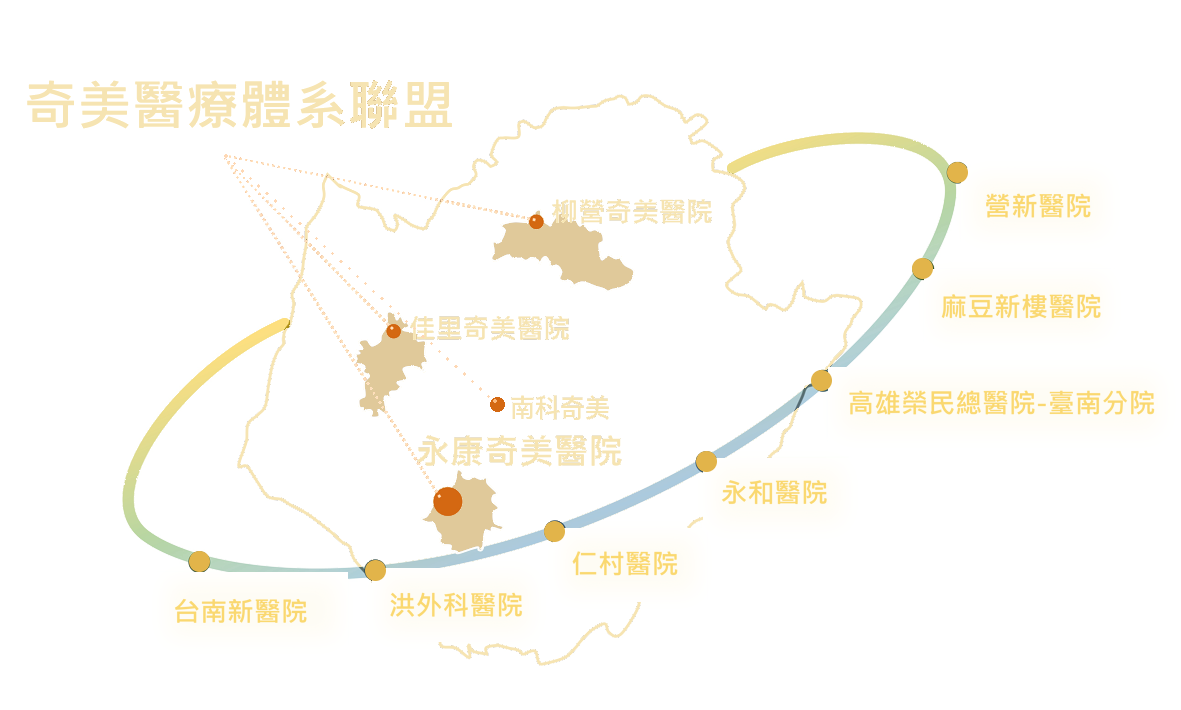
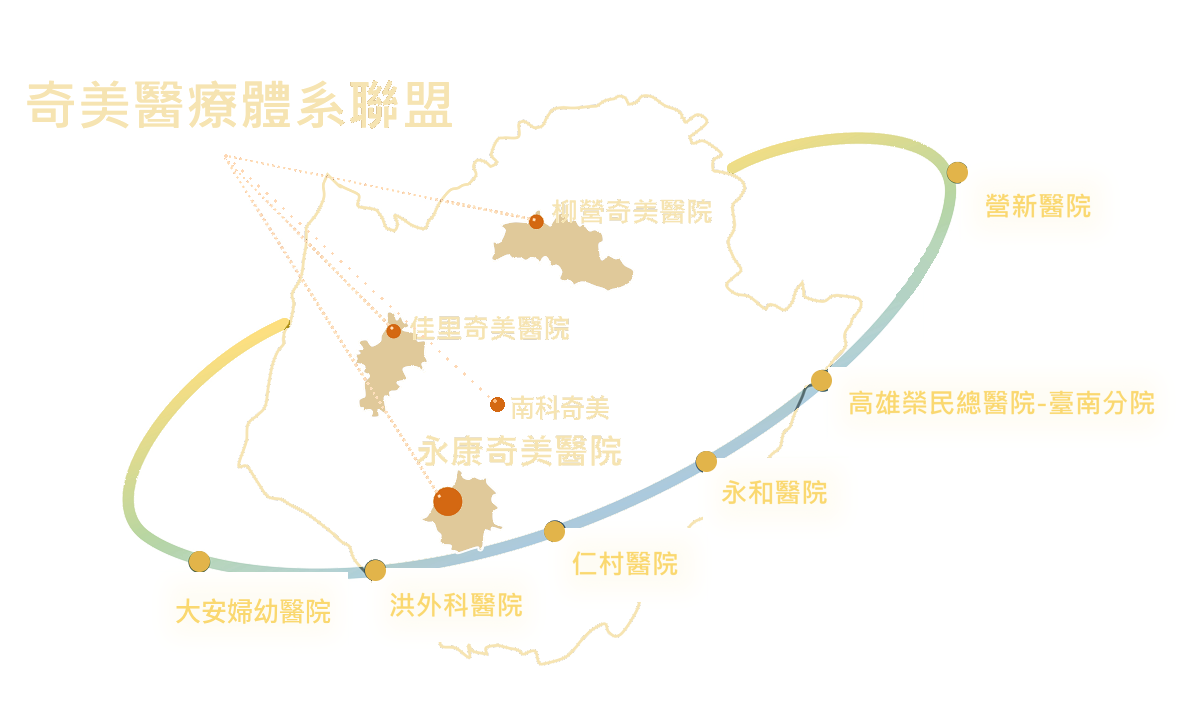
Add files via upload

Changed region(s): [[0.7925, 0.4028, 0.945, 0.4648], [0.1524, 0.8366, 0.2743, 0.8986], [0.7621, 0.3408, 0.7925, 0.4028]]

diff --git a/screen.html b/screen.html
@@ -426,10 +426,10 @@
     .mebar .who span { max-width: 4.5em; }
   }
 </style>
-<link rel="stylesheet" href="css/bigtree.css?v=20261107x">
-<link rel="stylesheet" href="css/gallery.css?v=20261107x">
-<link rel="stylesheet" href="css/garden.css?v=20261107x">
-<link rel="stylesheet" href="css/finale.css?v=20261107x">
+<link rel="stylesheet" href="css/bigtree.css?v=20261107y">
+<link rel="stylesheet" href="css/gallery.css?v=20261107y">
+<link rel="stylesheet" href="css/garden.css?v=20261107y">
+<link rel="stylesheet" href="css/finale.css?v=20261107y">
 </head>
 <body>
 <div id="stage"><div id="labels"></div></div>
@@ -497,25 +497,25 @@
 <div class="walkhint hide" id="walkhint"></div>
 <div class="joy" id="joy" aria-label="搖桿"><div class="ring"></div><div class="knob"></div></div>
 
-<script src="js/vendor/three.min.js?v=20261107x"></script>
-<script src="js/vendor/OrbitControls.js?v=20261107x"></script>
-<script src="js/vendor/BufferGeometryUtils.js?v=20261107x"></script>
-<script src="js/vendor/qrcode.js?v=20261107x"></script>
-<script src="js/config.js?v=20261107x"></script>
-<script src="js/content.js?v=20261107x"></script>
-<script src="js/avatars.js?v=20261107x"></script>
-<script src="js/store.js?v=20261107x"></script>
-<script src="js/taiwan_path.js?v=20261107x"></script>
-<script src="js/world3d.js?v=20261107x"></script>
-<script src="js/life3d.js?v=20261107x"></script>
-<script src="js/balloons3d.js?v=20261107x"></script>
-<script src="js/bigtree.js?v=20261107x"></script>
-<script src="js/flowerart.js?v=20261107x"></script>
-<script src="js/watercard.js?v=20261107x"></script>
-<script src="js/gallery.js?v=20261107x"></script>
-<script src="js/wish.js?v=20261107x"></script>
-<script src="js/finale.js?v=20261107x"></script>
-<script src="js/music.js?v=20261107x"></script>
-<script src="js/screen3d.js?v=20261107x"></script>
+<script src="js/vendor/three.min.js?v=20261107y"></script>
+<script src="js/vendor/OrbitControls.js?v=20261107y"></script>
+<script src="js/vendor/BufferGeometryUtils.js?v=20261107y"></script>
+<script src="js/vendor/qrcode.js?v=20261107y"></script>
+<script src="js/config.js?v=20261107y"></script>
+<script src="js/content.js?v=20261107y"></script>
+<script src="js/avatars.js?v=20261107y"></script>
+<script src="js/store.js?v=20261107y"></script>
+<script src="js/taiwan_path.js?v=20261107y"></script>
+<script src="js/world3d.js?v=20261107y"></script>
+<script src="js/life3d.js?v=20261107y"></script>
+<script src="js/balloons3d.js?v=20261107y"></script>
+<script src="js/bigtree.js?v=20261107y"></script>
+<script src="js/flowerart.js?v=20261107y"></script>
+<script src="js/watercard.js?v=20261107y"></script>
+<script src="js/gallery.js?v=20261107y"></script>
+<script src="js/wish.js?v=20261107y"></script>
+<script src="js/finale.js?v=20261107y"></script>
+<script src="js/music.js?v=20261107y"></script>
+<script src="js/screen3d.js?v=20261107y"></script>
 </body>
 </html>

diff --git a/host.html b/host.html
@@ -6,8 +6,8 @@
 <title>360°深耕奇美・主持人</title>
 <link rel="preconnect" href="https://fonts.googleapis.com">
 <link rel="stylesheet" href="https://fonts.googleapis.com/css2?family=Huninn&family=Noto+Sans+TC:wght@400;500;700&display=swap">
-<link rel="stylesheet" href="css/app.css?v=20261107x">
-<link rel="stylesheet" href="css/bigtree.css?v=20261107x">
+<link rel="stylesheet" href="css/app.css?v=20261107y">
+<link rel="stylesheet" href="css/bigtree.css?v=20261107y">
 <style>
   body { background: #F6F3EA; }
   .wrap { max-width: 1100px; margin: 0 auto; padding: 20px 16px 60px; }
@@ -59,11 +59,11 @@
 </div>
 <div class="wrap hide" id="main"></div>
 <div class="wrap hide" id="treewrap" style="padding-top:0"><div class="card"><h2 style="margin:0 0 6px">🌳 收成大樹預覽</h2><p class="note" id="treenote" style="margin:0 0 10px"></p><div class="row" style="margin:0 0 10px"><button class="btn small" id="tree-sim">▶ 預覽收成（從種子長成大樹）</button><button class="btn small ghost" id="tree-clear">清除全場澆水</button></div><div id="treebox"></div></div></div>
-<script src="js/config.js?v=20261107x"></script>
-<script src="js/content.js?v=20261107x"></script>
-<script src="js/avatars.js?v=20261107x"></script>
-<script src="js/store.js?v=20261107x"></script>
-<script src="js/bigtree.js?v=20261107x"></script>
-<script src="js/host.js?v=20261107x"></script>
+<script src="js/config.js?v=20261107y"></script>
+<script src="js/content.js?v=20261107y"></script>
+<script src="js/avatars.js?v=20261107y"></script>
+<script src="js/store.js?v=20261107y"></script>
+<script src="js/bigtree.js?v=20261107y"></script>
+<script src="js/host.js?v=20261107y"></script>
 </body>
 </html>

diff --git a/index.html b/index.html
@@ -6,8 +6,8 @@
 <title>360°深耕奇美・報到</title>
 <link rel="preconnect" href="https://fonts.googleapis.com">
 <link rel="stylesheet" href="https://fonts.googleapis.com/css2?family=Huninn&family=Noto+Sans+TC:wght@400;500;700&display=swap">
-<link rel="stylesheet" href="css/app.css?v=20261107x">
-<link rel="stylesheet" href="css/finale.css?v=20261107x">
+<link rel="stylesheet" href="css/app.css?v=20261107y">
+<link rel="stylesheet" href="css/finale.css?v=20261107y">
 <style>
   body { background: linear-gradient(170deg, #E6F3EE 0%, #FFF6E8 45%, #FDEDEA 100%); min-height: 100vh; }
   #app { max-width: 480px; margin: 0 auto; padding: 16px 16px 120px; min-height: 100vh; }
@@ -149,12 +149,12 @@
 </head>
 <body>
 <div id="app"><p class="status">載入中…</p></div>
-<script src="js/config.js?v=20261107x"></script>
-<script src="js/content.js?v=20261107x"></script>
-<script src="js/avatars.js?v=20261107x"></script>
-<script src="js/store.js?v=20261107x"></script>
-<script src="js/flowerart.js?v=20261107x"></script>
-<script src="js/finale.js?v=20261107x"></script>
-<script src="js/participant.js?v=20261107x"></script>
+<script src="js/config.js?v=20261107y"></script>
+<script src="js/content.js?v=20261107y"></script>
+<script src="js/avatars.js?v=20261107y"></script>
+<script src="js/store.js?v=20261107y"></script>
+<script src="js/flowerart.js?v=20261107y"></script>
+<script src="js/finale.js?v=20261107y"></script>
+<script src="js/participant.js?v=20261107y"></script>
 </body>
 </html>

diff --git a/garden.html b/garden.html
@@ -7,8 +7,8 @@
 <title>共識花園・360°深耕奇美</title>
 <link rel="preconnect" href="https://fonts.googleapis.com">
 <link rel="stylesheet" href="https://fonts.googleapis.com/css2?family=Huninn&family=Noto+Sans+TC:wght@400;500;700;900&display=swap">
-<link rel="stylesheet" href="css/app.css?v=20261107x">
-<link rel="stylesheet" href="css/garden.css?v=20261107x">
+<link rel="stylesheet" href="css/app.css?v=20261107y">
+<link rel="stylesheet" href="css/garden.css?v=20261107y">
 <style>
   :root { --gold: #C9A24E; --teal: #1E6F5C; --grass1: #9BD17E; --grass2: #7FBF6A; --soil: #8C6A45; --wood: #B98A5E; --drop: #3E95E0; }
   html, body { height: 100%; }
@@ -80,12 +80,12 @@
 </head>
 <body>
 <div class="wrap" id="g"><div class="gate">載入中…</div></div>
-<script src="js/config.js?v=20261107x"></script>
-<script src="js/content.js?v=20261107x"></script>
-<script src="js/avatars.js?v=20261107x"></script>
-<script src="js/store.js?v=20261107x"></script>
-<script src="js/flowerart.js?v=20261107x"></script>
-<script src="js/watercard.js?v=20261107x"></script>
-<script src="js/garden.js?v=20261107x"></script>
+<script src="js/config.js?v=20261107y"></script>
+<script src="js/content.js?v=20261107y"></script>
+<script src="js/avatars.js?v=20261107y"></script>
+<script src="js/store.js?v=20261107y"></script>
+<script src="js/flowerart.js?v=20261107y"></script>
+<script src="js/watercard.js?v=20261107y"></script>
+<script src="js/garden.js?v=20261107y"></script>
 </body>
 </html>

diff --git a/js/gallery.js b/js/gallery.js
@@ -6,13 +6,14 @@
 (function () {
   const SLIDES = [1, 2, 3, 4, 5, 6, 7, 8, 9, 10, 13, 14];   // 目前收到的投影片頁碼
   const FUTURE = [2027, 2028, 2029];
+  const IMGV = "20261107y";   // 換投影片圖檔時改這個，避免手機讀到舊圖
   const pad = (n) => String(n).padStart(2, "0");
   let el = null, idx = -1;
 
   function frame(n, i) {
     return `<figure class="gl-art" data-i="${i}" style="--d:${(i % 6) * 80}ms">
       <div class="gl-light"></div>
-      <div class="gl-frame"><div class="gl-mat"><img src="assets/gallery/${pad(n)}_s.jpg" alt="第 ${n} 幅" loading="lazy"></div></div>
+      <div class="gl-frame"><div class="gl-mat"><img src="assets/gallery/${pad(n)}_s.jpg?v=${IMGV}" alt="第 ${n} 幅" loading="lazy"></div></div>
       <figcaption><span>2025–2026</span></figcaption>
     </figure>`;
   }
@@ -52,7 +53,7 @@
     const v = el.querySelector(".gl-view");
     if (i < 0) { v.classList.add("hide"); return; }
     const n = SLIDES[i];
-    v.querySelector("img").src = `assets/gallery/${pad(n)}.jpg`;
+    v.querySelector("img").src = `assets/gallery/${pad(n)}.jpg?v=${IMGV}`;
     v.querySelector(".gl-cap").textContent = `${i + 1} / ${SLIDES.length}`;
     v.classList.remove("hide");
   }

diff --git a/js/finale.js b/js/finale.js
@@ -29,7 +29,7 @@
       <div class="fn-body">
         <div class="fn-map"><img src="assets/taiwan_gold.png" alt=""><i class="fn-pin"></i><svg class="fn-cone" viewBox="0 0 100 100" preserveAspectRatio="none"><polygon points="0,62 100,0 100,100"/></svg></div>
         <div class="fn-goals">${f.goals.map(goalHtml).join("")}</div>
-        <div class="fn-alliance"><div class="fa-frame"><img src="assets/alliance_map.png?v=20261107k" alt="奇美醫療體系聯盟"></div></div>
+        <div class="fn-alliance"><div class="fa-frame"><img src="assets/alliance_map.png?v=20261107y" alt="奇美醫療體系聯盟"></div></div>
       </div>
       <div class="fn-foot"><span class="fn-eyebrow">${escapeHtml(f.eyebrow)}</span>${stats ? `<span class="fn-stats">${stats}</span>` : ""}<span class="fn-tag">深耕台南・健康台灣</span></div></div>
       <div class="fn-sign">深耕辦公室</div>`;
